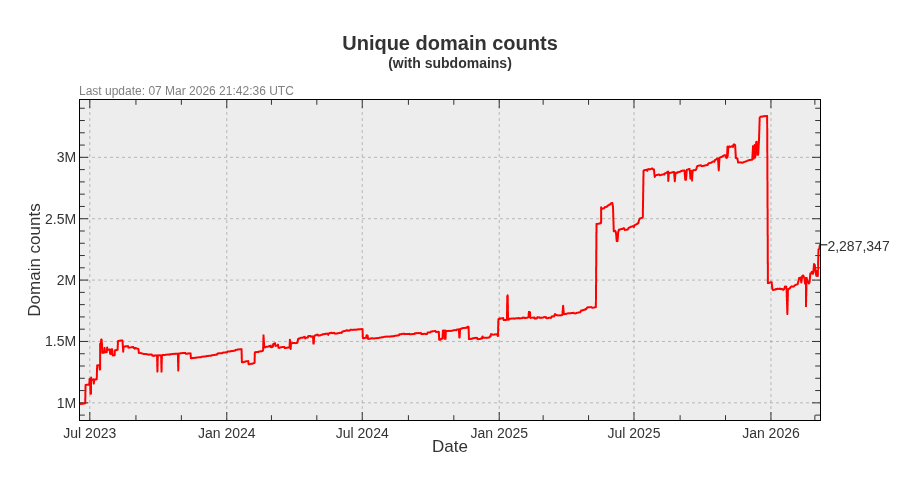
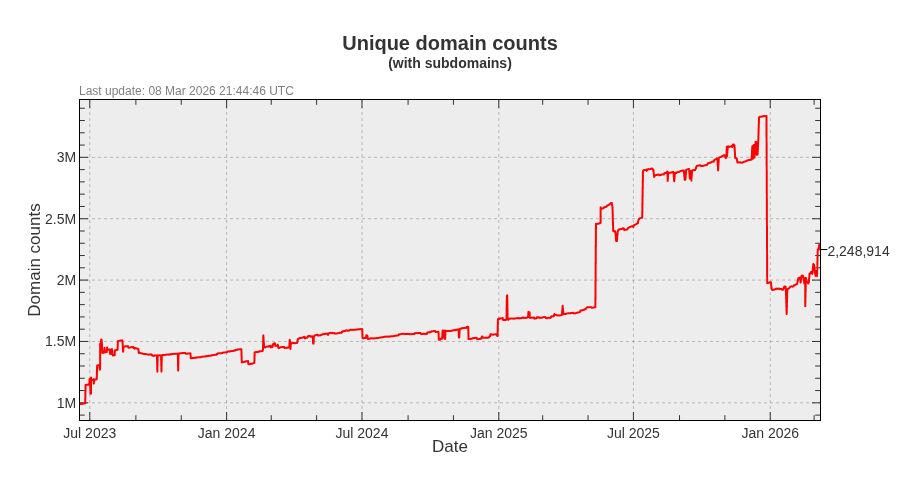
Update pages

diff --git a/README.md b/README.md
@@ -3,22 +3,22 @@ A blocklist file for blocking ads, trackers and malware domains.
 
[1 lines of base64/hex data omitted]
 
-- Unique domains: 2,287,347
-- Without subdomains: 1,620,944
-- Last update: 07 Mar 2026 21:42:36 UTC
-- Version: 2026.03.07.01
+- Unique domains: 2,248,914
+- Without subdomains: 1,582,543
+- Last update: 08 Mar 2026 21:44:46 UTC
+- Version: 2026.03.08.01
 
 
 ## Downloads:
 
 | Format             | Domain count      | Download Link |
 |------------------ | -----------------|-------------|
-| *Adblock Plus*     | 1,620,944 | [Download](https://dl.cenk.app/bad-hosts/bad-hosts-abp) |
-| *Wildcard domains* | 1,620,944 | [Download](https://dl.cenk.app/bad-hosts/bad-hosts-wildcard) |
-| *dnsmasq*          | 1,620,944 | [Download](https://dl.cenk.app/bad-hosts/bad-hosts-dnsmasq) |
-| *hosts*            | 2,287,347 | [Download](https://dl.cenk.app/bad-hosts/hosts) |
-| *hosts (ipv6)*     | 2,287,347 | [Download](https://dl.cenk.app/bad-hosts/hosts-ipv6) |
-| *Plain domains*    | 2,287,347 | [Download](https://dl.cenk.app/bad-hosts/bad-hosts-domains) |
+| *Adblock Plus*     | 1,582,543 | [Download](https://dl.cenk.app/bad-hosts/bad-hosts-abp) |
+| *Wildcard domains* | 1,582,543 | [Download](https://dl.cenk.app/bad-hosts/bad-hosts-wildcard) |
+| *dnsmasq*          | 1,582,543 | [Download](https://dl.cenk.app/bad-hosts/bad-hosts-dnsmasq) |
+| *hosts*            | 2,248,914 | [Download](https://dl.cenk.app/bad-hosts/hosts) |
+| *hosts (ipv6)*     | 2,248,914 | [Download](https://dl.cenk.app/bad-hosts/hosts-ipv6) |
+| *Plain domains*    | 2,248,914 | [Download](https://dl.cenk.app/bad-hosts/bad-hosts-domains) |
 
 ## Domain count history
 ### With subdomains
